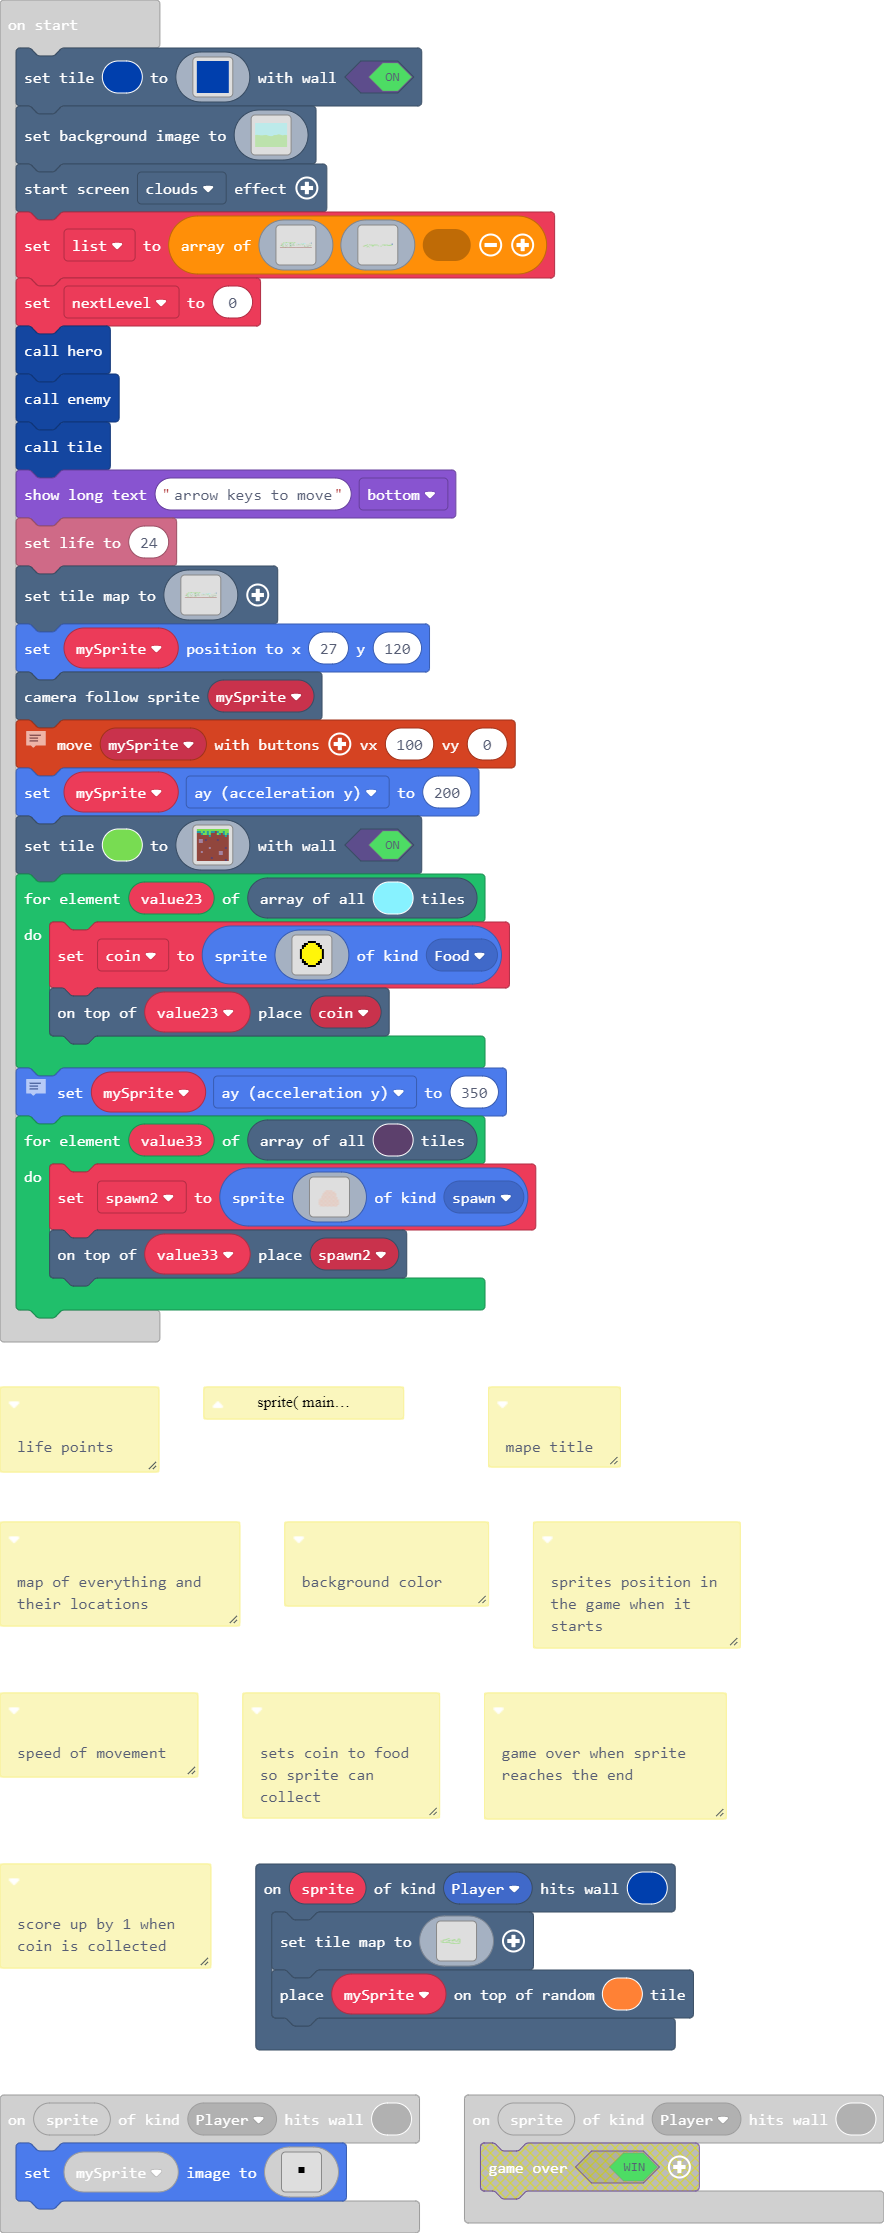
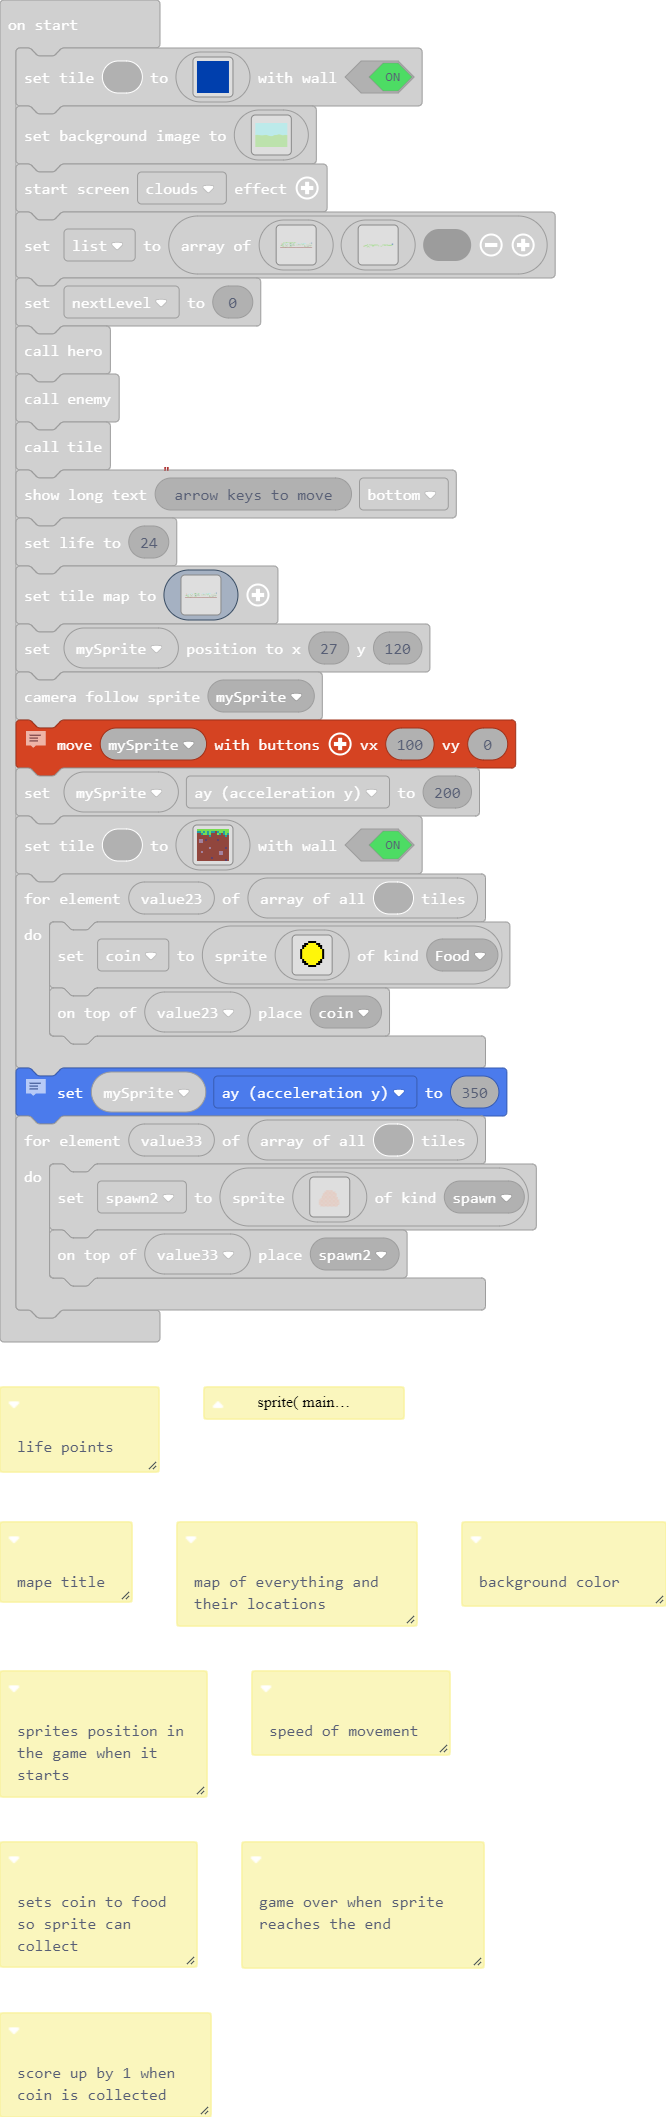
Update main.blocks, main.ts

diff --git a/main.ts b/main.ts
@@ -515,11 +515,11 @@ info.setLife(24)
 scene.setTileMap(img`
 . . . . . . . . . . . . . . . . . . . . . . . . . . . . . . . . . . . . . . . . . . . . . . . . . . . . . . . . . . . . 
 . . . . . . . . . . . . . . . . . . . . . . . . . . . . . . . . . . . . . . . . . . . . . . . . . . . . . . . . . . . . 
-. . . . . . . . . . . 7 7 . 7 7 . 7 . 7 7 7 . 7 7 . 7 7 7 . . . . . . . . . . . . . . . . . . . . . . . . . . . . . . . 
-. . . . . . 7 7 . 7 . 7 . . . . . . . . . . . . . . . . . . . . . . . . . . . . . . . . . . . . . . . . . . . . . . 8 . 
-. . . . . 7 . . . . . . 9 . . . . . . c . . . . . 9 . . . . . . . 9 9 . . . . . . . . . . 9 9 9 . . . . . . . . . . 8 . 
-. . 4 . . 7 . . 9 . . . . . 9 . . 7 7 7 7 7 . . 7 7 7 . . . . . . . . . . . 9 . 7 9 9 9 7 . 9 . . . . . . . . 7 . . 7 . 
-. . . . 7 . 9 . . . 7 . . . 7 . . . . . . . . . . . . . . . . . . . . c . . . . . 7 . 7 . . . . . . . . 7 . . . . . . . 
+. . . . . . . . . . . . . . . . . . . . . . . . . . . . . . . . . . . . . . . . . . . . . . . . . . . . . . . . . . . . 
+. . . . . . . . . . . . . . . . . . . . . . . . . . . . . . . . . . . . . . . . . . . . . . . . . . . . . . . . . . 8 . 
+. . . . . . . . . . . . 9 . . . . . . c . . . . . 9 . . . . . . . 9 9 . . . . . . . . . . 9 9 9 . . . . . . . . . . 8 . 
+. . 4 . . . . . 9 . . . . . 9 . . 7 7 7 7 7 . . 7 7 7 . . . . . . . . . . . 9 . 7 9 9 9 7 . 9 . . . . . . . . 7 . . 7 . 
+. . . . . . 9 . . . 7 . . . 7 . . . . . . . . . . . . . . . . . . . . c . . . . . 7 . 7 . . . . . . . . 7 . . . . . . . 
 . . . c . . 7 . . . . . . . . . . . . 9 9 . . . c . . 9 . . 7 . 7 . . 7 . . 7 . . . 7 . . . . . . 7 . . . . . . . . . . 
 . 7 7 7 . . . . . . . c . . . . . . . c c . . . 7 . . 7 . . . . . . . . . . . . . . . . . . 7 . . . . . . . 7 . c . 7 . 
 . . . . 7 7 . . . . . 7 . . 7 . . . 7 7 7 7 . . . . . . . . . . . . . . . . . . . . . . . c . . . . . . c . . . 7 . . . 
